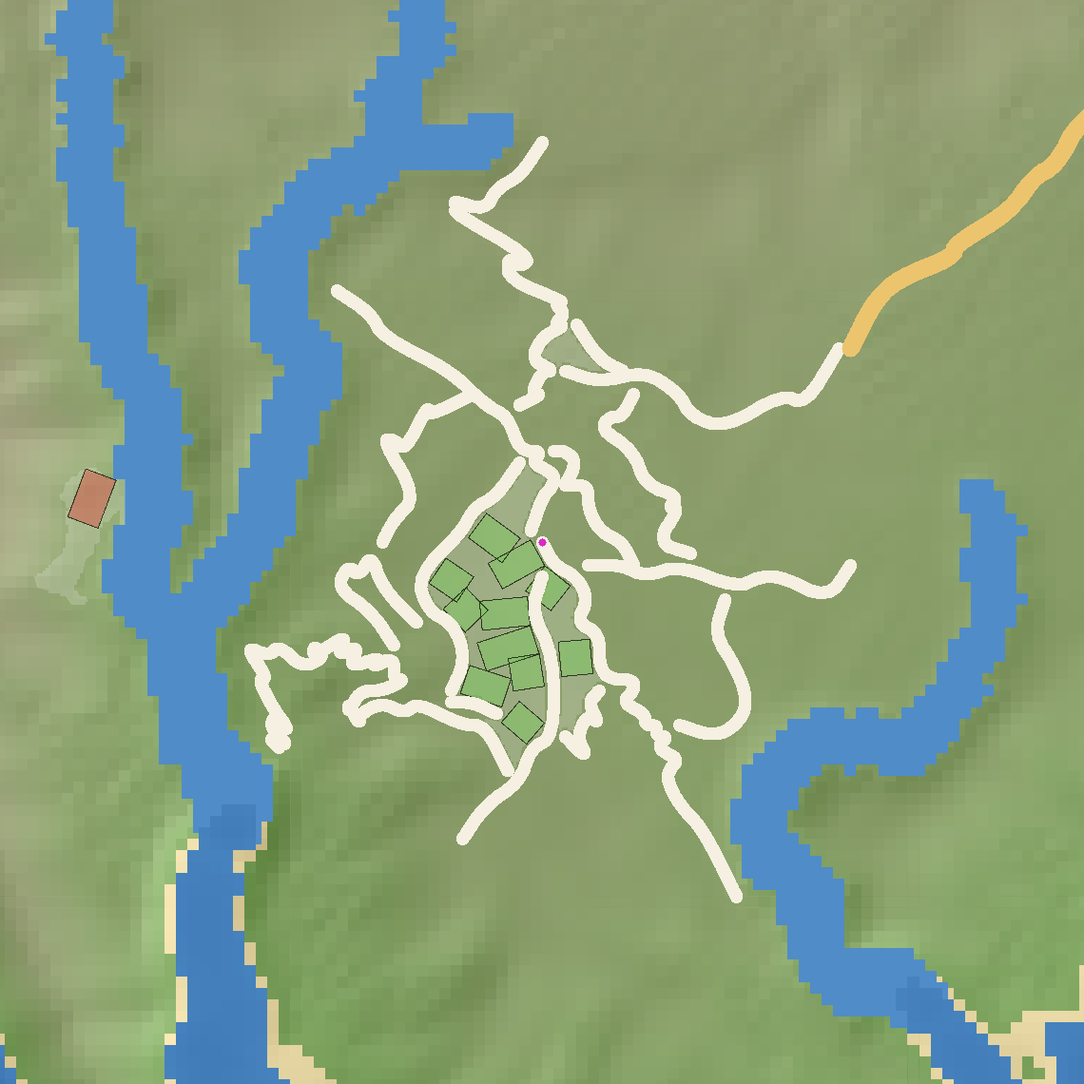
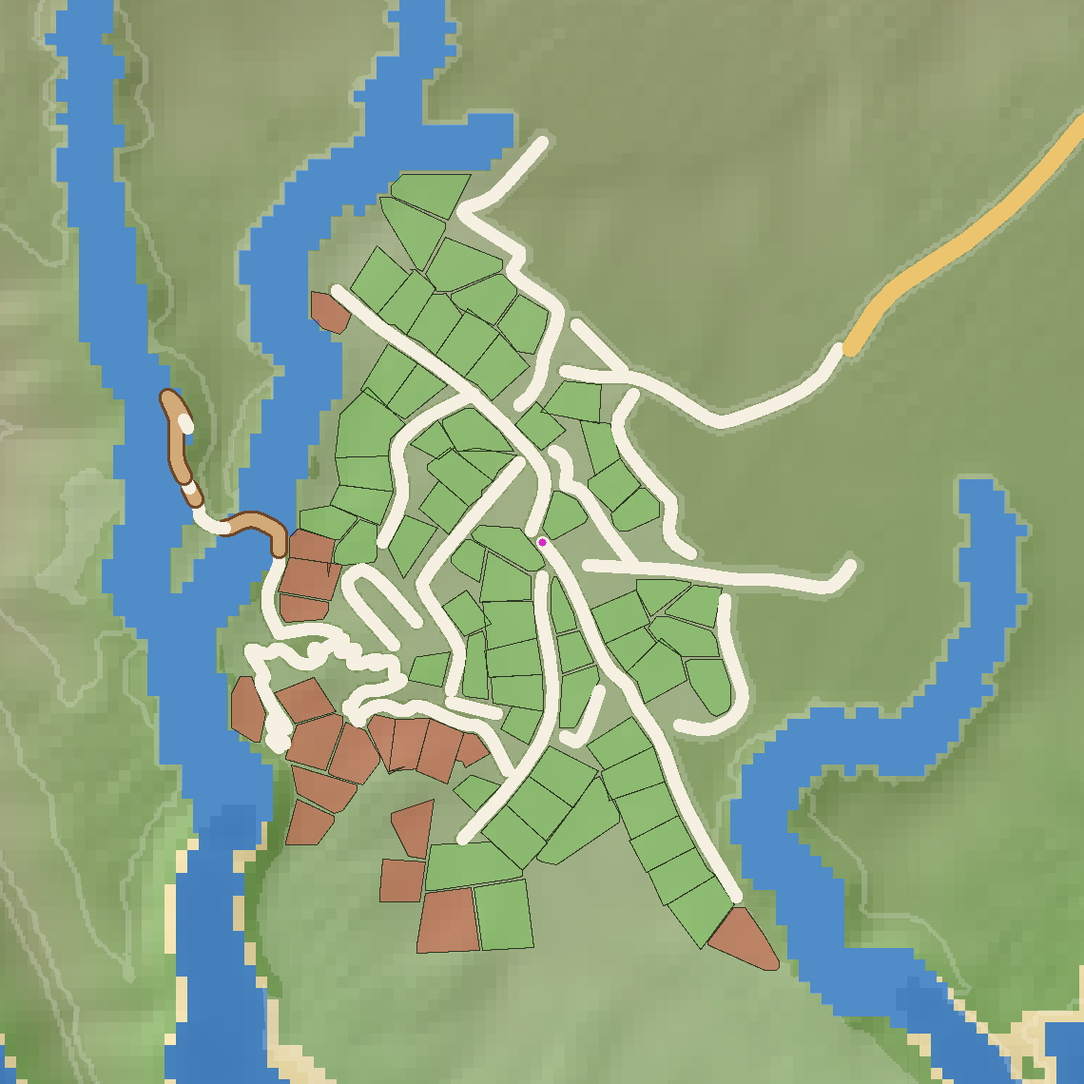
settlement: single-landmass sites, grade fallback, smooth roads, quad/corner/irregular plots, gap closing
Sites avoid thin strips and other islands; routes relax grade progressively; road polylines smoothed and simplified; plots fan along curved frontage, wrap corners and fill leftovers; towns no longer claim overlapping ground. Output is backward compatible (added fields: lots[].shape, sites[].landFrac, stats.relaxedRoutes).

diff --git a/packages/settlement/src/lots.js b/packages/settlement/src/lots.js
@@ -1,54 +1,118 @@
-// Plots cut along streets (street-first): walk each block boundary edge, lay plots of lotW x lotD inward from the street edge,
-// keep only plots that sit inside the block region and do not overlap earlier plots. Every plot therefore fronts a street.
-import {polyArea,polyCentroid,pointInPoly,distSeg,r1,r2,r3} from './geom.js';
+// Plots cut along streets (street-first): walk each block boundary, lay plots inward from the street edge. A plot is a
+// quadrilateral whose side edges follow the local street normal (so frontage curves fan the plots), a corner lot wraps
+// a sharp block corner (5+ vertices), and a second pass fills leftover interior areas with irregular polygons that
+// still touch a street. Plots stay inside the block region and never overlap (1 m raster occupancy).
+import {polyArea,polyCentroid,pointInPoly,distSeg,dpClosed,r1,r2,r3} from './geom.js';
 
 export function buildLots(T,block,blockId,siteId,S,ctx,rng,lots){
-  const {reg,win,centre,segs,occ}=ctx,poly=block.poly,n=poly.length;
+  const {reg,win,centre,segs,occ}=ctx,poly0=block.poly,poly=(()=>{const d=dpClosed(poly0,1.0);return d.length>=3?d:poly0;})(),n=poly.length,full=S.lotW*S.lotD,rs=win.rs;
   const near=segs.filter(s=>s.mxx>=block.cx-120&&s.mnx<=block.cx+120&&s.mxz>=block.cz-120&&s.mnz<=block.cz+120);
-  const cellOf=(x,z)=>{const xx=Math.floor((x-win.ox)/win.rs),yy=Math.floor((z-win.oz)/win.rs);return (xx<0||yy<0||xx>=win.W||yy>=win.W)?-1:yy*win.W+xx;};
+  const cellOf=(x,z)=>{const xx=Math.floor((x-win.ox)/rs),yy=Math.floor((z-win.oz)/rs);return (xx<0||yy<0||xx>=win.W||yy>=win.W)?-1:yy*win.W+xx;};
   const inBlock=(x,z)=>{const q=cellOf(x,z);return q>=0&&reg[q]===block.q;};
-  // walk the block boundary by arclength; each plot spans one chord of the (possibly curved) street edge
+  // window cells whose centre lies inside a polygon
+  const cellsIn=p=>{let x0=1e9,x1=-1e9,z0=1e9,z1=-1e9;for(const v of p){x0=Math.min(x0,v[0]);x1=Math.max(x1,v[0]);z0=Math.min(z0,v[1]);z1=Math.max(z1,v[1]);}
+    const out=[];const xa=Math.max(0,Math.floor((x0-win.ox)/rs)),xb=Math.min(win.W-1,Math.ceil((x1-win.ox)/rs)),ya=Math.max(0,Math.floor((z0-win.oz)/rs)),yb=Math.min(win.W-1,Math.ceil((z1-win.oz)/rs));
+    for(let y=ya;y<=yb;y++)for(let x=xa;x<=xb;x++)if(pointInPoly(win.ox+(x+0.5)*rs,win.oz+(y+0.5)*rs,p))out.push(y*win.W+x);return out;};
+  const overlap=cells=>{let hit=0;for(const c of cells)if(occ[c]||reg[c]!==block.q)hit++;return hit;};   // occupied or outside the block region
+  let kept=0;
+  const crs=(o,p,q)=>(p[0]-o[0])*(q[1]-o[1])-(p[1]-o[1])*(q[0]-o[0]);
+  const simple=p=>{const k=p.length;for(let i=0;i<k;i++)for(let j=i+2;j<k;j++){if(i===0&&j===k-1)continue;const a=p[i],b=p[(i+1)%k],c=p[j],d=p[(j+1)%k];if(crs(a,b,c)*crs(a,b,d)<0&&crs(c,d,a)*crs(c,d,b)<0)return false;}return true;};
+  // finish a plot: stats, frontage road, buildable flag. fm = point on the street side used to pick the frontage road.
+  function commit(lp,shape,fm,cells,maxGap=4.5){
+    lp=lp.map(v=>[r1(v[0]),r1(v[1])]);if(!simple(lp))return false;   // rounded output must stay a simple polygon
+    const A=Math.abs(polyArea(lp)),c=polyCentroid(lp);
+    let x0=1e9,x1=-1e9,z0=1e9,z1=-1e9;for(const v of lp){x0=Math.min(x0,v[0]);x1=Math.max(x1,v[0]);z0=Math.min(z0,v[1]);z1=Math.max(z1,v[1]);}
+    let ns=0,ss=0,sm=0,hs=0,bad=false;
+    for(let z=z0+1;z<z1;z+=2)for(let x=x0+1;x<x1;x+=2){if(!pointInPoly(x,z,lp))continue;ns++;if(T.state(x,z)!==0)bad=true;const sl=T.slopeAt(x,z);ss+=sl;if(sl>sm)sm=sl;hs+=T.height(x,z);}
+    if(ns===0)return false;
+    let fr=null,fg=1e9,fx=0,fz=0;
+    for(const s of near){const d=distSeg(fm[0],fm[1],s.ax,s.az,s.bx,s.bz);const g=d.d-s.hw;if(g<fg){fg=g;fr=s.rid;fx=d.x;fz=d.z;}}
+    if(fr===null||fg>maxGap)return false;   // a plot must front a street, not a shore or cliff edge
+    for(const q of cells)occ[q]=1;
+    const slope=ss/ns;
+    const buildable=!bad&&A>=full*0.4&&slope<=S.slopeLimit&&sm<=S.slopeLimit*2;
+    const dc=Math.hypot(c[0]-centre.x,c[1]-centre.z)/S.R,coast=T.dSea[T.k(c[0],c[1])]*T.cell;
+    const size=A<full*0.75?'small':A<full*1.05?'medium':'large';
+    const district=dc<0.28?'centre':coast<45?'waterfront':dc<0.75?'residential':'outskirts';
+    lots.push({id:'l'+lots.length,blockId,townId:siteId,poly:lp,frontageRoadId:fr,area:Math.round(A*10)/10,slope:r3(slope),buildable,
+      h:r2(hs/ns),size,district,facing:r3(Math.atan2(fz-c[1],fx-c[0])),shape});kept++;return true;
+  }
+  // ---- pass 1: street-first quads and corner lots along the (possibly curved) boundary ----
   const cum=[0];for(let i=0;i<n;i++){const p=poly[i],q=poly[(i+1)%n];cum.push(cum[i]+Math.hypot(q[0]-p[0],q[1]-p[1]));}
   const total=cum[n],at=s=>{s=((s%total)+total)%total;let i=0;while(cum[i+1]<s)i++;const p=poly[i],q=poly[(i+1)%n],t=(s-cum[i])/((cum[i+1]-cum[i])||1);return [p[0]+(q[0]-p[0])*t,p[1]+(q[1]-p[1])*t];};
-  const m=Math.floor(total/S.lotW);let kept=0;if(m<1)return 0;const w=total/m;
-  {
+  const corners=[];for(let i=0;i<n;i++){const a=poly[(i+n-1)%n],b=poly[i],c=poly[(i+1)%n],ux=b[0]-a[0],uz=b[1]-a[1],vx=c[0]-b[0],vz=c[1]-b[1];
+    const turn=Math.abs(Math.atan2(ux*vz-uz*vx,ux*vx+uz*vz));if(turn>=0.5){const L1=Math.hypot(ux,uz)||1,L2=Math.hypot(vx,vz)||1;corners.push({s:cum[i]||total,s0:cum[i],i,turn,n1:[-uz/L1,ux/L1],n2:[-vz/L2,vx/L2],p:b});}}
+  const tang=s=>{const dl=S.lotW*0.5,a=at(s-dl),b=at(s+dl),L=Math.hypot(b[0]-a[0],b[1]-a[1])||1;return [(b[0]-a[0])/L,(b[1]-a[1])/L];};
+  const m=Math.floor(total/S.lotW);
+  if(m>=1){const w=total/m;
     for(let j=0;j<m;j++){
-      const ea=at(j*w),eb=at((j+1)*w),el=Math.hypot(eb[0]-ea[0],eb[1]-ea[1]);if(el<S.lotW*0.5)continue;
-      const e={a:ea,b:eb,L:el},ux=(eb[0]-ea[0])/el,uz=(eb[1]-ea[1])/el;let nx=-uz,nz=ux;
-      const mx=(ea[0]+eb[0])/2,mz=(ea[1]+eb[1])/2;if(!inBlock(mx+nx*1.5,mz+nz*1.5)){nx=-nx;nz=-nz;if(!inBlock(mx+nx*1.5,mz+nz*1.5))continue;}
-      let placed=null;
+      const s0=j*w,s1=(j+1)*w,ea=at(s0),eb=at(s1),el=Math.hypot(eb[0]-ea[0],eb[1]-ea[1]);if(el<S.lotW*0.5)continue;
+      const ux=(eb[0]-ea[0])/el,uz=(eb[1]-ea[1])/el;let nx=-uz,nz=ux;
+      const mx=(ea[0]+eb[0])/2,mz=(ea[1]+eb[1])/2;let sg=1;if(!inBlock(mx+nx*1.5,mz+nz*1.5)){sg=-1;nx=-nx;nz=-nz;if(!inBlock(mx+nx*1.5,mz+nz*1.5))continue;}
+      // street-side points: chord ends plus sharp block corners strictly inside the chord (miter normals)
+      const P=[];{const t0=tang(s0),t1=tang(s1);P.push({p:ea,n:[-t0[1]*sg,t0[0]*sg],k:1});
+        for(const c of corners){if(c.s>s0+4&&c.s<s1-4){let bx=(c.n1[0]+c.n2[0])*sg,bz=(c.n1[1]+c.n2[1])*sg;const L=Math.hypot(bx,bz);if(L<0.35)continue;
+          P.push({p:c.p,n:[bx/L,bz/L],k:Math.min(1.7,2/L)});}}
+        P.push({p:eb,n:[-t1[1]*sg,t1[0]*sg],k:1});}
+      const Pfull=P;let placed=null,cornerLot=false;
+      for(const useCorner of (P.length>2?[true,false]:[false])){if(placed)break;
+      const PP=useCorner?Pfull:[Pfull[0],Pfull[Pfull.length-1]];cornerLot=useCorner;
       for(const df of [1,0.8,0.6]){
         const d=S.lotD*df*(0.9+rng()*0.2);
-        const p0=e.a,p1=e.b;
-        // pull a hair off the street edge so plots do not touch the road bed
-        const q=[[p0[0]+nx*0.3,p0[1]+nz*0.3],[p1[0]+nx*0.3,p1[1]+nz*0.3],[p1[0]+nx*d,p1[1]+nz*d],[p0[0]+nx*d,p0[1]+nz*d]];
+        const O=PP.map(v=>[v.p[0]+v.n[0]*0.3*v.k,v.p[1]+v.n[1]*0.3*v.k]),I=PP.map(v=>[v.p[0]+v.n[0]*d*v.k,v.p[1]+v.n[1]*d*v.k]);
+        const q=O.concat(I.slice().reverse());
+        const A=Math.abs(polyArea(q));if(A<el*d*0.55||!simple(q))continue;
+        if(!cornerLot){const iw=Math.hypot(I[1][0]-I[0][0],I[1][1]-I[0][1]);if(iw<el*0.55||iw>el*1.8)continue;}
         const c=polyCentroid(q);let ok=inBlock(c[0],c[1]);
         for(const v of q){if(!ok)break;if(!inBlock(v[0]+(c[0]-v[0])*0.12,v[1]+(c[1]-v[1])*0.12))ok=false;}
+        for(let i=0;ok&&i<I.length-1;i++){const mm=[(I[i][0]+I[i+1][0])/2,(I[i][1]+I[i+1][1])/2];if(!inBlock(mm[0]+(c[0]-mm[0])*0.1,mm[1]+(c[1]-mm[1])*0.1))ok=false;}
         if(!ok)continue;
-        // overlap with earlier plots (1 m raster occupancy)
-        let tot=0,hit=0;const xs=q.map(v=>v[0]),zs=q.map(v=>v[1]);
-        for(let z=Math.min(...zs);z<=Math.max(...zs);z+=1)for(let x=Math.min(...xs);x<=Math.max(...xs);x+=1){if(!pointInPoly(x,z,q))continue;tot++;const k=cellOf(x,z);if(k<0||occ[k])hit++;}
-        if(tot===0||hit>tot*0.08)continue;
-        placed=q;break;}
+        const cells=cellsIn(q);if(!cells.length||overlap(cells)>cells.length*0.04)continue;
+        placed={q,cells};break;}}
       if(!placed)continue;
-      const lp=placed,A=Math.abs(polyArea(lp)),c=polyCentroid(lp);
-      let x0=1e9,x1=-1e9,z0=1e9,z1=-1e9;for(const v of lp){x0=Math.min(x0,v[0]);x1=Math.max(x1,v[0]);z0=Math.min(z0,v[1]);z1=Math.max(z1,v[1]);}
-      let ns=0,ss=0,sm=0,hs=0,bad=false;
-      for(let z=z0;z<=z1;z+=1)for(let x=x0;x<=x1;x+=1){if(!pointInPoly(x,z,lp))continue;const k=cellOf(x,z);if(k>=0)occ[k]=1;}
-      for(let z=z0+1;z<z1;z+=2)for(let x=x0+1;x<x1;x+=2){if(!pointInPoly(x,z,lp))continue;ns++;if(T.state(x,z)!==0)bad=true;const sl=T.slopeAt(x,z);ss+=sl;if(sl>sm)sm=sl;hs+=T.height(x,z);}
-      if(ns===0)continue;
-      // frontage road = nearest street edge to the plot's street-side midpoint
-      const fm=[(lp[0][0]+lp[1][0])/2,(lp[0][1]+lp[1][1])/2];let fr=null,fg=1e9,fx=0,fz=0;
-      for(const s of near){const d=distSeg(fm[0],fm[1],s.ax,s.az,s.bx,s.bz);const g=d.d-s.hw;if(g<fg){fg=g;fr=s.rid;fx=d.x;fz=d.z;}}
-      if(fr===null)continue;
-      const slope=ss/ns,full=S.lotW*S.lotD;
-      const buildable=!bad&&A>=full*0.4&&slope<=S.slopeLimit&&sm<=S.slopeLimit*2;
-      const dc=Math.hypot(c[0]-centre.x,c[1]-centre.z)/S.R,coast=T.dSea[T.k(c[0],c[1])]*T.cell;
-      const size=A<full*0.75?'small':A<full*1.05?'medium':'large';
-      const district=dc<0.28?'centre':coast<45?'waterfront':dc<0.75?'residential':'outskirts';
-      lots.push({id:'l'+lots.length,blockId,townId:siteId,poly:lp.map(v=>[r1(v[0]),r1(v[1])]),frontageRoadId:fr,area:Math.round(A*10)/10,slope:r3(slope),buildable,
-        h:r2(hs/ns),size,district,facing:r3(Math.atan2(fz-c[1],fx-c[0]))});kept++;
+      const fm=cornerLot?Pfull[1].p:[(ea[0]+eb[0])/2,(ea[1]+eb[1])/2];
+      commit(placed.q,cornerLot?'corner':'quad',fm,placed.cells);
     }
   }
+  // ---- pass 2: leftover interior areas become irregular lots (must still reach a street) ----
+  const W=win.W;
+  if(!ctx.F)ctx.F=new Uint8Array(W*W);
+  const F=ctx.F;
+  let bx0=1e9,bx1=-1e9,by0=1e9,by1=-1e9;for(const v of poly){bx0=Math.min(bx0,v[0]);bx1=Math.max(bx1,v[0]);by0=Math.min(by0,v[1]);by1=Math.max(by1,v[1]);}
+  const xa=Math.max(1,Math.floor((bx0-win.ox)/rs)-1),xb=Math.min(W-2,Math.ceil((bx1-win.ox)/rs)+1),ya=Math.max(1,Math.floor((by0-win.oz)/rs)-1),yb=Math.min(W-2,Math.ceil((by1-win.oz)/rs)+1);
+  const cand=[];
+  for(let y=ya;y<=yb;y++)for(let x=xa;x<=xb;x++){const c=y*W+x;if(reg[c]===block.q&&!occ[c]){F[c]=1;cand.push(c);}}
+  const keep=[];for(const c of cand)if(F[c-1]&&F[c+1]&&F[c-W]&&F[c+W])keep.push(c);   // erode one cell: margin to roads and neighbours
+  for(const c of cand)F[c]=0;for(const c of keep)F[c]=1;
+  const comps=[];
+  for(const s of keep){if(F[s]!==1)continue;const cells=[],st=[s];F[s]=2;while(st.length){const c=st.pop();cells.push(c);for(const d of [-1,1,-W,W]){const q=c+d;if(F[q]===1){F[q]=2;st.push(q);}}}comps.push(cells);}
+  for(const c of keep)F[c]=0;
+  const minCells=full*0.4/(rs*rs),maxCells=full*1.7/(rs*rs);
+  const split=cells=>{if(cells.length<=maxCells)return [cells];
+    let mx=0,my=0;for(const c of cells){mx+=c%W;my+=(c/W)|0;}mx/=cells.length;my/=cells.length;
+    let cxx=0,cyy=0,cxy=0;for(const c of cells){const dx=c%W-mx,dy=((c/W)|0)-my;cxx+=dx*dx;cyy+=dy*dy;cxy+=dx*dy;}
+    const ang=0.5*Math.atan2(2*cxy,cxx-cyy),ax=Math.cos(ang),ay=Math.sin(ang),A=[],B=[];
+    for(const c of cells){const pj=(c%W-mx)*ax+(((c/W)|0)-my)*ay;if(pj<-0.75)A.push(c);else if(pj>0.75)B.push(c);}
+    return split(A).concat(split(B));};
+  const hullOf=cells=>{const pts=[];for(const c of cells){const x=win.ox+(c%W)*rs,z=win.oz+((c/W)|0)*rs;pts.push([x,z],[x+rs,z],[x,z+rs],[x+rs,z+rs]);}
+    pts.sort((p,q)=>p[0]-q[0]||p[1]-q[1]);const cr=(o,p,q)=>(p[0]-o[0])*(q[1]-o[1])-(p[1]-o[1])*(q[0]-o[0]);const lo=[],up=[];
+    for(const p of pts){while(lo.length>=2&&cr(lo[lo.length-2],lo[lo.length-1],p)<=0)lo.pop();lo.push(p);}
+    for(let i=pts.length-1;i>=0;i--){const p=pts[i];while(up.length>=2&&cr(up[up.length-2],up[up.length-1],p)<=0)up.pop();up.push(p);}
+    lo.pop();up.pop();return lo.concat(up);};
+  const tryPiece=(cells,depth)=>{if(cells.length<minCells)return;
+    let hull=hullOf(cells);hull=dpClosed(hull,0.7);if(hull.length>=3&&hull.length<=10){
+      const A=Math.abs(polyArea(hull));let per=0;for(let i=0;i<hull.length;i++){const a=hull[i],b=hull[(i+1)%hull.length];per+=Math.hypot(b[0]-a[0],b[1]-a[1]);}
+      const c=polyCentroid(hull),cl=cellsIn(hull);
+      let fm=null,bg=1e9;for(const v of hull)for(const s of near){const g=distSeg(v[0],v[1],s.ax,s.az,s.bx,s.bz).d-s.hw;if(g<bg){bg=g;fm=v;}}
+      const okShape=A>=full*0.4&&A/(per*per)>=0.045&&inBlock(c[0],c[1])&&fm&&bg<=S.lotD*0.9;
+      if(okShape&&cl.length&&overlap(cl)<=cl.length*0.03){commit(hull,'irregular',fm,cl,S.lotD*0.9);return;}}
+    if(depth>=3||cells.length<minCells*2.2)return;
+    // concave or overlapping: bisect along the principal axis (with a 1 m gap) and retry each half
+    let mx=0,my=0;for(const c of cells){mx+=c%W;my+=(c/W)|0;}mx/=cells.length;my/=cells.length;
+    let cxx=0,cyy=0,cxy=0;for(const c of cells){const dx=c%W-mx,dy=((c/W)|0)-my;cxx+=dx*dx;cyy+=dy*dy;cxy+=dx*dy;}
+    const ang=0.5*Math.atan2(2*cxy,cxx-cyy),ax=Math.cos(ang),ay=Math.sin(ang),A=[],B=[];
+    for(const c of cells){const pj=(c%W-mx)*ax+(((c/W)|0)-my)*ay;if(pj<-0.75)A.push(c);else if(pj>0.75)B.push(c);}
+    tryPiece(A,depth+1);tryPiece(B,depth+1);};
+  for(const comp of comps){for(const cells of split(comp))tryPiece(cells,0);}
   return kept;
 }

diff --git a/packages/settlement/src/roads.js b/packages/settlement/src/roads.js
@@ -5,33 +5,43 @@ import {chaikin,dpOpen,r1} from './geom.js';
 import {rngFor,hashStr} from './rng.js';
 
 export function buildRoads(T,sites,S,seed){
-  const N=T.N,cell=T.cell,used=new Uint8Array(N*N),roads=[],stats={droppedPieces:0,failedRoutes:0,routes:0};
+  const N=T.N,cell=T.cell,used=new Uint8Array(N*N),roads=[],stats={droppedPieces:0,failedRoutes:0,routes:0,relaxedRoutes:0};
   const W=S.widths,noise=valueNoise(hashStr(seed+'|noise'),6);
   const stamp=k=>{const i=k%N,j=(k/N)|0;for(let dj=-1;dj<=1;dj++)for(let di=-1;di<=1;di++){const a=i+di,b=j+dj;if(a>=0&&b>=0&&a<N&&b<N)used[b*N+a]=1;}};
   const segState=(a,b)=>{const L=Math.hypot(b[0]-a[0],b[1]-a[1]),n=Math.max(1,Math.ceil(L/1.5));let s=0;for(let i=0;i<=n;i++){const t=i/n,v=T.state(a[0]+(b[0]-a[0])*t,a[1]+(b[1]-a[1])*t);if(v>s)s=v;if(s===2)return 2;}return s;};
   const statesOf=p=>{const out=[];for(let i=0;i<p.length-1;i++){const s=segState(p[i],p[i+1]);if(s===2)return null;out.push(s);}return out;};
-  function emit(raw,cls,width){
-    const cands=[chaikin(dpOpen(raw,1.5),2),chaikin(raw,2),raw];let pts=null,st=null;
-    for(const c of cands){st=statesOf(c);if(st){pts=c;break;}}
+  // max grade over ~3 m steps along a polyline (slope re-check after smoothing)
+  const maxGrade=p=>{let g=0;for(let i=0;i<p.length-1;i++){const a=p[i],b=p[i+1],L=Math.hypot(b[0]-a[0],b[1]-a[1]),n=Math.max(1,Math.ceil(L/3));let h0=T.height(a[0],a[1]);
+    for(let t=1;t<=n;t++){const h1=T.height(a[0]+(b[0]-a[0])*t/n,a[1]+(b[1]-a[1])*t/n),d=L/n;if(d>0.5){const q=Math.abs(h1-h0)/d;if(q>g)g=q;}h0=h1;}}return g;};
+  // light 1-2-1 pre-smoothing of grid nodes (endpoints fixed so junctions still meet)
+  const relax=(p,it)=>{let q=p;for(let k=0;k<it;k++){if(q.length<3)break;q=q.map((v,i)=>i===0||i===q.length-1?v:[q[i-1][0]*0.25+v[0]*0.5+q[i+1][0]*0.25,q[i-1][1]*0.25+v[1]*0.5+q[i+1][1]*0.25]);}return q;};
+  function emit(raw,cls,width,gl){
+    const lim=(gl||1)*1.4,okG=c=>maxGrade(c)<=Math.max(lim,maxGrade(raw)*1.15);
+    // smooth curve (relax + Chaikin, then simplify to few points), falling back to gentler smoothing, then the raw path
+    const cands=[()=>dpOpen(chaikin(dpOpen(relax(raw,2),1.2),3),0.3),()=>chaikin(dpOpen(raw,1.5),2),()=>chaikin(raw,2),()=>raw];let pts=null,st=null;
+    for(let ci=0;ci<cands.length;ci++){const c=cands[ci]();if(ci<3&&!okG(c))continue;st=statesOf(c);if(st){pts=c;break;}}
     if(!pts){stats.droppedPieces++;return;}
     let s=0;while(s<st.length){let e=s;while(e+1<st.length&&st[e+1]===st[s])e++;
       const piece=pts.slice(s,e+2);if(piece.length>=2){let len=0;for(let i=0;i<piece.length-1;i++)len+=Math.hypot(piece[i+1][0]-piece[i][0],piece[i+1][1]-piece[i][1]);
         if(st[s]===0||len>1){const r={id:'r'+roads.length,class:cls,width:width,bridge:st[s]===1,pts:piece.map(p=>[r1(p[0]),r1(p[1])])};if(r.bridge)r.kind=len<=10?'ford':'bridge';roads.push(r);}}
       s=e+1;}
   }
-  function addPath(nodes,cls,width,dedupe=true){
+  function addPath(nodes,cls,width,dedupe=true){const gl=nodes&&nodes.gl;
     if(!nodes||nodes.length<2)return;
     const xz=nodes.map(k=>T.xz(k%N,(k/N)|0));let i=0;
     while(i<nodes.length){
       if(dedupe&&used[nodes[i]]){i++;continue;}
       let e=i;while(e+1<nodes.length&&(!dedupe||!used[nodes[e+1]]))e++;
-      if(e-i+1>=2||!dedupe){const s=Math.max(0,i-1),f=Math.min(nodes.length-1,e+1);emit(xz.slice(s,f+1),cls,width);}
+      if(e-i+1>=2||!dedupe){const s=Math.max(0,i-1),f=Math.min(nodes.length-1,e+1);emit(xz.slice(s,f+1),cls,width,gl);}
       i=e+1;}
     for(const k of nodes)stamp(k);stats.routes++;
   }
   function addPolyline(pts,cls,width){emit(pts,cls,width);const L=pts.length;for(let i=0;i<L-1;i++){const a=pts[i],b=pts[i+1],n=Math.ceil(Math.hypot(b[0]-a[0],b[1]-a[1])/cell);for(let t=0;t<=n;t++)stamp(T.k(a[0]+(b[0]-a[0])*t/n,a[1]+(b[1]-a[1])*t/n));}}
   const baseOpts=()=>({gradeMax:S.gradeMax,gradeRef:S.gradeRef,wGrade:S.wGrade,wSlope:S.wSlope});
-  const route=(a,b,o)=>{const p=astar(T,a,b,{...baseOpts(),...o});if(!p)stats.failedRoutes++;return p;};
+  // route with progressive grade relaxation: strict limit first, then 1.4x, 2x, 3x, 5x (a route only fails when none connect)
+  const route=(a,b,o)=>{for(const mul of [1,1.4,2,3,5]){const bo=baseOpts();const p=astar(T,a,b,{...bo,...o,gradeMax:Math.min(0.9,bo.gradeMax*mul)});
+    if(p){p.gl=Math.min(0.9,bo.gradeMax*mul);if(mul>1)stats.relaxedRoutes++;return p;}}
+    stats.failedRoutes++;return null;};
 
   // ---- town streets ----
   for(const site of sites){

diff --git a/packages/settlement/index.js b/packages/settlement/index.js
@@ -20,14 +20,20 @@ export function generateSettlement(island,{seed,style}={}){
   const owner=(x,z)=>{let b=null,bd=1e18;for(const s of sites){const d=(s.x-x)**2+(s.z-z)**2;if(d<bd){bd=d;b=s.id;}}return b;};
   const segs=[];for(const r of roads)for(let i=0;i<r.pts.length-1;i++){const a=r.pts[i],b=r.pts[i+1];segs.push({rid:r.id,ax:a[0],az:a[1],bx:b[0],bz:b[1],hw:r.width/2,mnx:Math.min(a[0],b[0]),mxx:Math.max(a[0],b[0]),mnz:Math.min(a[1],b[1]),mxz:Math.max(a[1],b[1])});}
   const blocks=[],lots=[];
+  // towns whose windows overlap must not both claim the same free area: 1 m world raster of already-claimed ground
+  const G=Math.ceil(island.size)+2,claimed=new Uint8Array(G*G),hs=island.size/2;
   for(const site of sites){
     const {blocks:bl,win,reg}=buildBlocks(T,roads,site,S,owner);const occ=new Uint8Array(win.W*win.W);const rng=rngFor(sd,'lots|'+site.id);
-    for(const b of bl){let poly=b.poly;if(polyArea(poly)<0)poly=poly.slice().reverse();b.poly=poly;const id='b'+blocks.length;
+    for(const b of bl){
+      {const cl=[];let hit=0;const rs=win.rs,xa=Math.max(0,Math.floor(Math.min(...b.poly.map(v=>v[0]))-win.ox)-1),xb=Math.min(win.W-1,Math.ceil(Math.max(...b.poly.map(v=>v[0]))-win.ox)+1),ya=Math.max(0,Math.floor(Math.min(...b.poly.map(v=>v[1]))-win.oz)-1),yb=Math.min(win.W-1,Math.ceil(Math.max(...b.poly.map(v=>v[1]))-win.oz)+1);
+        for(let y=ya;y<=yb;y++)for(let x=xa;x<=xb;x++){if(reg[y*win.W+x]!==b.q)continue;const gx=Math.floor(win.ox+(x+0.5)*rs+hs),gz=Math.floor(win.oz+(y+0.5)*rs+hs);if(gx<0||gz<0||gx>=G||gz>=G)continue;const g=gz*G+gx;if(claimed[g])hit++;cl.push(g);}
+        if(hit>cl.length*0.25)continue;for(const g of cl)claimed[g]=1;}
+      let poly=b.poly;if(polyArea(poly)<0)poly=poly.slice().reverse();b.poly=poly;const id='b'+blocks.length;
       const before=lots.length;buildLots(T,b,id,site.id,S,{reg,win,centre:site,segs,occ},rng,lots);
       blocks.push({id,townId:site.id,poly:poly.map(v=>[r1(v[0]),r1(v[1])]),area:Math.round(b.area),lots:lots.length-before,
         roadIds:[...new Set(lots.slice(before).map(l=>l.frontageRoadId))]});}
   }
-  const outSites=sites.map(s=>({id:s.id,x:r1(s.x),z:r1(s.z),h:r2(s.h),flatFrac:r2(s.flatFrac),flatArea:s.flatArea,coastDist:s.coastDist,riverMouth:s.riverMouth,score:r2(s.score),slopeLevel:s.slopeLevel,radius:S.R}));
+  const outSites=sites.map(s=>({id:s.id,x:r1(s.x),z:r1(s.z),h:r2(s.h),flatFrac:r2(s.flatFrac),flatArea:s.flatArea,coastDist:s.coastDist,riverMouth:s.riverMouth,score:r2(s.score),slopeLevel:s.slopeLevel,landFrac:r2(s.landFrac),radius:S.R}));
   const flat=pts=>{const o=[];for(const p of pts)o.push(p[0],p[1]);return o;};
   const buildable=lots.filter(l=>l.buildable).length;
   return {
@@ -41,6 +47,6 @@ export function generateSettlement(island,{seed,style}={}){
       blocks:blocks.map(b=>({id:b.id,xz:flat(b.poly)})),
       sites:outSites.map(s=>({id:s.id,x:s.x,z:s.z,radius:s.radius}))},
     stats:{sites:sites.length,roads:roads.length,bridges:roads.filter(r=>r.bridge).length,blocks:blocks.length,lots:lots.length,buildable,
-      unconnectedSites:unconnected,failedRoutes:rs.failedRoutes,droppedRoadPieces:rs.droppedPieces,ms:Date.now()-t0}};
+      unconnectedSites:unconnected,failedRoutes:rs.failedRoutes,droppedRoadPieces:rs.droppedPieces,relaxedRoutes:rs.relaxedRoutes,ms:Date.now()-t0}};
 }
 export const generateTown=generateSettlement;

diff --git a/packages/settlement/src/sites.js b/packages/settlement/src/sites.js
@@ -4,24 +4,34 @@ const LEVELS=[{frac:0.6,slope:0.15},{frac:0.5,slope:0.18},{frac:0.4,slope:0.22},
 export function pickSites(T,S,seed){
   const N=T.N,cell=T.cell,rng=rngFor(seed,'sites');
   const rad=Math.max(6,Math.round(65/cell)),step=2,sites=[];
+  // all sites live on ONE connected landmass (roads never cross the sea): the passable component with the most dry cells
+  const cnt=new Map();for(let k=0;k<N*N;k++)if(T.dry[k]&&T.comp[k]>=0)cnt.set(T.comp[k],(cnt.get(T.comp[k])||0)+1);
+  let main=-1,mc=-1;for(const [c,v] of [...cnt.entries()].sort((a,b)=>a[0]-b[0]))if(v>mc){mc=v;main=c;}
+  const onlyMain=S.mainLandOnly!==false&&main>=0;
+  // wide land window (not just the flat window): rejects thin coastal strips and isthmus sites
+  const lrad=Math.max(rad+2,Math.round((S.landRadius||100)/cell)),landMin=S.landFrac??0.5;
+  const LI=new Int32Array((N+1)*(N+1));
+  for(let j=0;j<N;j++){let row=0;for(let i=0;i<N;i++){row+=T.dry[j*N+i]?1:0;LI[(j+1)*(N+1)+i+1]=LI[j*(N+1)+i+1]+row;}}
+  const landAt=(i,j)=>{const a=Math.max(0,i-lrad),b=Math.min(N-1,i+lrad),c=Math.max(0,j-lrad),d=Math.min(N-1,j+lrad);
+    return (LI[(d+1)*(N+1)+b+1]-LI[c*(N+1)+b+1]-LI[(d+1)*(N+1)+a]+LI[c*(N+1)+a])/((b-a+1)*(d-c+1));};
   for(const L of LEVELS){
     if(sites.length>=S.sites)break;
     const ok=new Uint8Array(N*N);
-    for(let k=0;k<N*N;k++)ok[k]=(T.dry[k]&&T.slope[k]<=L.slope&&T.h[k]>=T.sea+1&&T.distWater[k]>=2)?1:0;
+    for(let k=0;k<N*N;k++)ok[k]=(T.dry[k]&&T.slope[k]<=L.slope&&T.h[k]>=T.sea+1&&T.distWater[k]>=2&&(!onlyMain||T.comp[k]===main))?1:0;
     const I=new Int32Array((N+1)*(N+1));
     for(let j=0;j<N;j++){let row=0;for(let i=0;i<N;i++){row+=ok[j*N+i];I[(j+1)*(N+1)+i+1]=I[j*(N+1)+i+1]+row;}}
     const cand=[];
     for(let j=rad;j<N-rad;j+=step)for(let i=rad;i<N-rad;i+=step){const k=j*N+i;if(!ok[k])continue;
       const a=I[(j+rad+1)*(N+1)+i+rad+1]-I[(j-rad)*(N+1)+i+rad+1]-I[(j+rad+1)*(N+1)+i-rad]+I[(j-rad)*(N+1)+i-rad];
-      const frac=a/((2*rad+1)*(2*rad+1));if(frac<L.frac)continue;
+      const frac=a/((2*rad+1)*(2*rad+1));if(frac<L.frac)continue;const lf=landAt(i,j);if(lf<landMin-(L===LEVELS[LEVELS.length-1]?0.1:0))continue;
       const dw=T.dSea[k]*cell,coast=Math.max(0,1-Math.abs(dw-70)/180)*1.5;
       const mouth=(T.dRiver[k]*cell<130&&T.dSea[k]*cell<240)?0.6:0;
-      cand.push({k,i,j,frac,coast,mouth,score:frac*3+coast+mouth+rng()*0.05});}
+      cand.push({k,i,j,frac,coast,mouth,lf,score:frac*3+coast+mouth+rng()*0.05});}
     cand.sort((a,b)=>b.score-a.score||a.k-b.k);
     for(const c of cand){if(sites.length>=S.sites)break;
       const [x,z]=T.xz(c.i,c.j);let clash=false;for(const s of sites)if(Math.hypot(s.x-x,s.z-z)<S.spacing){clash=true;break;}
       if(clash)continue;
-      sites.push({id:'s'+sites.length,x,z,k:c.k,i:c.i,j:c.j,h:T.h[c.k],flatFrac:c.frac,flatArea:Math.round(c.frac*(2*rad*cell)**2),coastDist:Math.round(T.dSea[c.k]*cell),riverMouth:c.mouth>0,score:c.score,slopeLevel:L.slope});}
+      sites.push({id:'s'+sites.length,x,z,k:c.k,i:c.i,j:c.j,h:T.h[c.k],flatFrac:c.frac,flatArea:Math.round(c.frac*(2*rad*cell)**2),coastDist:Math.round(T.dSea[c.k]*cell),riverMouth:c.mouth>0,score:c.score,slopeLevel:L.slope,landFrac:c.lf});}
   }
   return sites;
 }

diff --git a/packages/settlement/src/blocks.js b/packages/settlement/src/blocks.js
@@ -38,10 +38,16 @@ export function buildBlocks(T,roads,site,S,ownerOf,opts={}){
   const win=rasterWindow(T,roads,site,S),{W,ox,oz,rs,blocked,Wh}=win;
   const reg=new Int32Array(W*W).fill(-1),lab=new Int32Array(W*W).fill(-1);let nl=0;const stack=new Int32Array(W*W);
   const info=[];
-  for(let s=0;s<W*W;s++){if(blocked[s]||lab[s]>=0)continue;let sp=0;stack[sp++]=s;lab[s]=nl;const cells=[];let border=false,sx=0,sy=0;
+  // gap closing: flood fill on roads dilated by 2 cells (a street that stops a few metres short of another no longer leaks), then regrow regions 2 cells
+  const GAP=opts.gap??2;let fb=blocked;
+  if(GAP>0){fb=new Uint8Array(W*W);const tmp=new Uint8Array(W*W);fb.set(blocked);
+    for(let it=0;it<GAP;it++){tmp.set(fb);for(let y=1;y<W-1;y++)for(let x=1;x<W-1;x++){const c=y*W+x;if(!fb[c]&&(fb[c-1]||fb[c+1]||fb[c-W]||fb[c+W]))tmp[c]=1;}fb.set(tmp);}}
+  for(let s=0;s<W*W;s++){if(fb[s]||lab[s]>=0)continue;let sp=0;stack[sp++]=s;lab[s]=nl;const cells=[];let border=false,sx=0,sy=0;
     while(sp){const c=stack[--sp];cells.push(c);const x=c%W,y=(c/W)|0;sx+=x;sy+=y;if(x===0||y===0||x===W-1||y===W-1)border=true;
-      if(x>0&&!blocked[c-1]&&lab[c-1]<0){lab[c-1]=nl;stack[sp++]=c-1;}if(x<W-1&&!blocked[c+1]&&lab[c+1]<0){lab[c+1]=nl;stack[sp++]=c+1;}
-      if(y>0&&!blocked[c-W]&&lab[c-W]<0){lab[c-W]=nl;stack[sp++]=c-W;}if(y<W-1&&!blocked[c+W]&&lab[c+W]<0){lab[c+W]=nl;stack[sp++]=c+W;}}
+      if(x>0&&!fb[c-1]&&lab[c-1]<0){lab[c-1]=nl;stack[sp++]=c-1;}if(x<W-1&&!fb[c+1]&&lab[c+1]<0){lab[c+1]=nl;stack[sp++]=c+1;}
+      if(y>0&&!fb[c-W]&&lab[c-W]<0){lab[c-W]=nl;stack[sp++]=c-W;}if(y<W-1&&!fb[c+W]&&lab[c+W]<0){lab[c+W]=nl;stack[sp++]=c+W;}}
+    if(GAP>0&&!border){let fr=cells;for(let it=0;it<GAP;it++){const nx=[];for(const c of fr){const x=c%W,y=(c/W)|0;if(x<1||y<1||x>=W-1||y>=W-1)continue;for(const d of [-1,1,-W,W]){const q=c+d;if(!blocked[q]&&lab[q]<0){lab[q]=nl;nx.push(q);cells.push(q);}}}fr=nx;}
+      sx=0;sy=0;for(const c of cells){sx+=c%W;sy+=(c/W)|0;}}
     info.push({cells,border,cx:ox+(sx/cells.length+0.5)*rs,cz:oz+(sy/cells.length+0.5)*rs});nl++;}
   const out=[];
   for(let q=0;q<info.length;q++){const r=info[q],area=r.cells.length*rs*rs;

diff --git a/packages/settlement/src/styles.js b/packages/settlement/src/styles.js
@@ -2,9 +2,9 @@
 export const STYLES={
   harborTown:{type:'grid',sites:4,spacing:380,R:140,streetSpacing:42,gradeMax:0.25,wGrade:2,wSlope:3,maxHalf:3,shoreDist:6,shoreW:0.5,
     widths:{main:7,street:5.5,path:2.6},lotW:11,lotD:17,slopeLimit:0.18,streetClass:'street'},
-  meadowCove:{type:'organic',sites:3,spacing:420,R:130,spokes:9,rings:[0.3,0.55,0.8],noiseAmp:1.1,gradeMax:0.3,wGrade:1.5,wSlope:2,maxHalf:3,shoreDist:6,shoreW:0.4,
+  meadowCove:{type:'organic',sites:3,spacing:420,R:130,spokes:9,rings:[0.3,0.55,0.8],noiseAmp:1.1,gradeMax:0.3,wGrade:1.5,wSlope:2,maxHalf:3,shoreDist:6,shoreW:0.4,landFrac:0.8,landRadius:120,
     widths:{main:6.5,street:4.8,path:2.4},lotW:12,lotD:18,slopeLimit:0.18,streetClass:'street'},
-  sandbarArchipelago:{type:'boardwalk',sites:4,spacing:200,R:110,spokes:6,rings:[0.5],gradeMax:0.3,wGrade:1,wSlope:2,maxHalf:3,shoreDist:3,shoreW:1.2,
+  sandbarArchipelago:{type:'boardwalk',sites:4,spacing:200,R:110,spokes:6,rings:[0.5],gradeMax:0.3,wGrade:1,wSlope:2,maxHalf:3,shoreDist:3,shoreW:1.2,landFrac:0.3,
     widths:{main:5,street:3.4,path:3.0},lotW:10,lotD:14,slopeLimit:0.2,streetClass:'path'},
   pineHighlands:{type:'switchback',sites:3,spacing:420,R:130,spokes:8,rings:[0.35,0.65],gradeMax:0.11,gradeRef:0.06,wGrade:8,wSlope:6,maxHalf:3,shoreDist:6,shoreW:0.3,
     widths:{main:6,street:4.4,path:2.2},lotW:13,lotD:19,slopeLimit:0.2,streetClass:'street'},

diff --git a/packages/settlement/README.md b/packages/settlement/README.md
@@ -13,12 +13,12 @@ island.flattenHook=createFlattenHook(plan);                                 // h
 `generateTown` is an alias of `generateSettlement`. It reads only `heightfield, water, size, grid, cell, seaLevel` (k = j*grid+i, row = z, x = -size/2 + i*cell), so it does not import island-gen.
 
 ## Output (plain JSON, world metres, coordinates rounded)
-- `sites[]` town centres: `{id,x,z,h,flatFrac,flatArea,coastDist,riverMouth,score,radius}`. Chosen from flat dry land (slope limit, minimum flat fraction in a 65 m window, thresholds relax until enough sites), scored for flatness, distance to the sea (sweet spot about 70 m) and river mouths.
+- `sites[]` town centres: `{id,x,z,h,flatFrac,flatArea,coastDist,riverMouth,score,slopeLevel,landFrac,radius}`. Chosen from flat dry land (slope limit, minimum flat fraction in a 65 m window, thresholds relax until enough sites), scored for flatness, distance to the sea (sweet spot about 70 m) and river mouths. All sites sit on the single largest connected landmass (roads never cross the sea), so an archipelago yields sites on its main island only. `landFrac` = dry fraction in a wider window (style `landFrac`/`landRadius`), which rejects thin coastal strips and isthmus sites.
 - `roads[]` `{id,class:'main'|'street'|'path',width,bridge,kind?,pts:[[x,z]...]}`. Slope-aware A* on the heightfield. Sea is never crossed. Inland water is crossed only where it is narrow (thickness limit), as separate pieces with `bridge:true` and `kind:'ford'` (<=10 m) or `'bridge'`.
 - `blocks[]` `{id,townId,poly,area,lots,roadIds}`: free space enclosed by roads, water and cliffs (1 m raster, flood fill, traced outline).
-- `lots[]` (plots) `{id,blockId,townId,poly,frontageRoadId,area,slope,buildable,h,size:'small'|'medium'|'large',district:'centre'|'waterfront'|'residential'|'outskirts',facing}`. Cut along the street edge of each block (street-first), inside the block, no overlaps. `buildable` = dry, big enough, mean slope <= `params.slopeLimit`.
+- `lots[]` (plots) `{id,blockId,townId,poly,frontageRoadId,area,slope,buildable,h,size:'small'|'medium'|'large',district:'centre'|'waterfront'|'residential'|'outskirts',facing,shape:'quad'|'corner'|'irregular'}`. Cut along the street edge of each block (street-first), inside the block, no overlaps. `poly` is no longer always a 4-point rectangle: `quad` follows the local street normal (plots fan along curved frontage), `corner` wraps a sharp block corner (5+ vertices), `irregular` is a convex 3-10 vertex fill of leftover block interior that still reaches a street. Every plot polygon is simple (no self-crossing); frontage must lie within a few metres of a road edge (never a shore or cliff edge). Towns with overlapping windows do not claim the same ground twice. `buildable` = dry, big enough, mean slope <= `params.slopeLimit`.
 - `layers` minimap-ready: `roads[{id,class,width,bridge,xz:[x,z,x,z...]}]`, `plots[{id,buildable,district,size,xz}]`, `blocks`, `sites`.
-- `stats`: counts, `unconnectedSites`, `failedRoutes`, `ms`.
+- `stats`: counts, `unconnectedSites`, `failedRoutes`, `relaxedRoutes`, `droppedRoadPieces`, `ms`.
 
 ## Styles (`src/styles.js`, data only)
 | id | street rule |
@@ -27,7 +27,9 @@ island.flattenHook=createFlattenHook(plan);                                 // h
 | meadowCove | winding spokes (noisy cost) plus ring streets |
 | sandbarArchipelago | `path` boardwalks: spokes to the shore plus a shore-hugging ring |
 | pineHighlands | hard grade limit so streets switch back, fewer rings |
-Unknown ids fall back to meadowCove. Main roads form a coast-hugging loop through the town centres (ordered by angle) plus one shortcut branch when there are 4+ sites. Components that cannot reach each other (separate islands) are skipped and listed in `stats.unconnectedSites`.
+Unknown ids fall back to meadowCove. Main roads form a coast-hugging loop through the town centres (ordered by angle) plus one shortcut branch when there are 4+ sites. Routes use progressive grade relaxation (limit x1, 1.4, 2, 3, 5) so a route only fails when no grade connects the two points; `stats.relaxedRoutes` counts how many needed it. Components that cannot reach each other are skipped and listed in `stats.unconnectedSites` (empty with the default one-landmass site rule).
+
+Road polylines are smoothed (1-2-1 relax, Chaikin, then simplified back to few points) and re-checked: sea state along the curve, and grade against the route's limit; failing that the gentler smoothing, then the raw path, is used. Blocks use a small gap closing step (roads dilated 2 m for the flood fill, regions regrown) so dead-end streets that stop a few metres short no longer leak.
 
 ## Flatten
 `flattenHeightfield(island,plan,{shoulder=7,smoothWin=24,pads,roads})` grades road beds to a smoothed longitudinal profile (gentle cut and fill, smoothstep shoulder), then levels buildable plots to their mean height. Bridges, sea and water cells are left alone.
@@ -42,4 +44,4 @@ Own seeded RNG, explicit tie-breaks in the heap and sorts. Same island + seed + 
 `npm test` at the repo root, or `node --test tests/*.test.mjs` here. A synthetic dome island (narrow river, wide lake) covers the bridge and sea rules; four real presets get loose floors only, since terrain may change.
 
 ## Known weaknesses
-Large unenclosed areas (leaky street networks) yield no blocks; sandbar and pine towns get fewer plots. Roads are routed on the 4 m grid and smoothed, so tight bends can be coarse. Plots are rectangles; no corner or alley handling. Sites are not guaranteed to be on the coast.
+Streets that stop more than about 4 m short of another still leak, so some areas yield no blocks (pine). Pine switchbacks come only from the A* grade limit (no explicit switchback insertion); relaxed fallback routes can wiggle along rivers. Boardwalks never cross open water, so other islands are simply left unsettled. Plots have no alleys; irregular fills are convex hulls, so very concave leftovers are bisected or dropped. Sites are not guaranteed to be on the coast. Shape quality is checked by invariant tests only (simple polygons, under 10% pairwise overlap).
